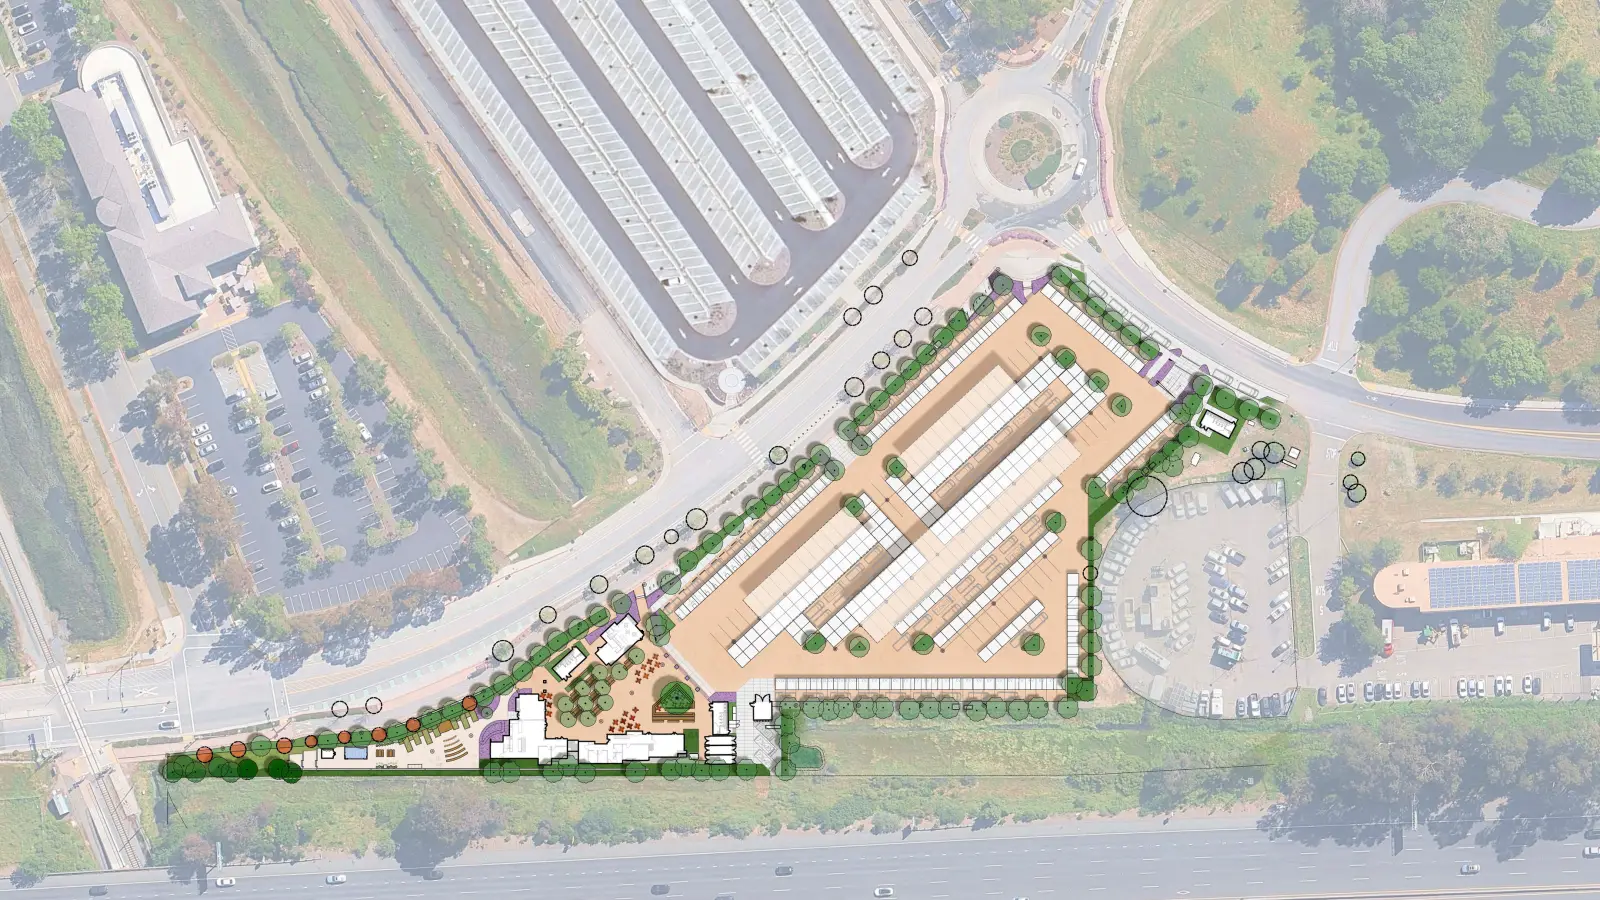
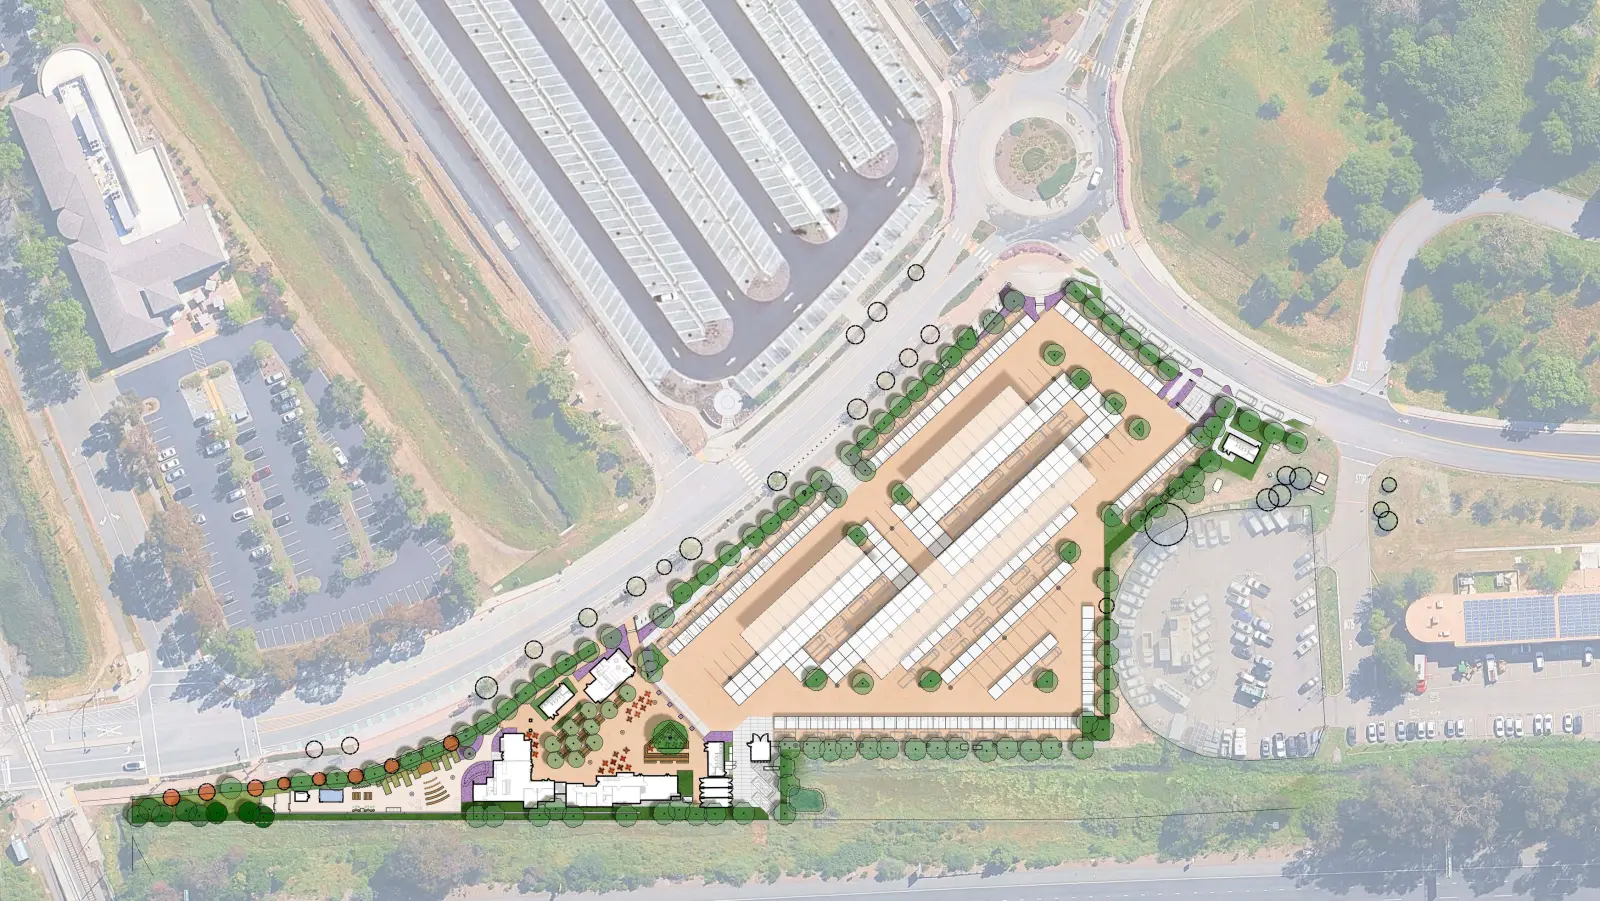
Fix CFA site map marker alignment
Canva places the plan art larger than the PDF page, overhanging the trim
by 40pt on each side and 45pt at the bottom. Marker coordinates are
measured against the page, so exporting the whole image put every marker
off by the overhang. Crop the export to the page frame instead.

Also measure the map frame with a ResizeObserver rather than on window
resize. The frame changes size when the layout switches between the
side-by-side and stacked arrangements, and a stale size fed clampView
bounds that pushed the plan out of view entirely.

diff --git a/app/cfa-map/CfaMapClient.tsx b/app/cfa-map/CfaMapClient.tsx
@@ -98,15 +98,25 @@ export default function CfaMapClient() {
 
   const active = selected ?? hovered;
 
+  // Measure the frame itself, not the window. The frame also changes size when
+  // the layout switches between the side-by-side and stacked arrangements and
+  // when its aspect ratio changes with it. A stale size feeds clampView the
+  // wrong bounds, which pushes the plan clean out of view.
   useEffect(() => {
-    const measure = () => {
-      setNarrow(window.innerWidth < 900);
-      const el = frameRef.current;
-      if (el) setSize({ w: el.clientWidth, h: el.clientHeight });
-    };
-    measure();
-    window.addEventListener("resize", measure);
-    return () => window.removeEventListener("resize", measure);
+    const el = frameRef.current;
+    if (!el) return;
+    const observer = new ResizeObserver(() =>
+      setSize({ w: el.clientWidth, h: el.clientHeight }),
+    );
+    observer.observe(el);
+    return () => observer.disconnect();
+  }, []);
+
+  useEffect(() => {
+    const onResize = () => setNarrow(window.innerWidth < 900);
+    onResize();
+    window.addEventListener("resize", onResize);
+    return () => window.removeEventListener("resize", onResize);
   }, []);
 
   const animateTo = useCallback((from: View, target: View) => {

diff --git a/lib/cfaMap.ts b/lib/cfaMap.ts
@@ -3,7 +3,10 @@
 // Marker coordinates are percentages of the base site-plan image and were
 // extracted from AIM's Canva PDF ("CFA Site Map.pdf", 2 pages, one legend set
 // per page) rather than placed by eye. Both PDF pages carry a byte-identical
-// 3680x2070 base image, so the two phases are two marker sets over one plan.
+// base image, so the two phases are two marker sets over one plan.
+//
+// The percentages are relative to the PDF *page*, which is why PLAN is cropped
+// to the page frame rather than exported whole. See the note on PLAN below.
 //
 // If AIM sends a revised PDF, re-run scripts/extract-site-map.py and paste the
 // output over the PHASES coordinates instead of nudging them by hand.
@@ -150,10 +153,14 @@ export const PHASES: Phase[] = [
   },
 ]
 
-/** the base plan, shared by both phases */
+/**
+ * The base plan, shared by both phases. Cropped to the PDF page frame: Canva
+ * places the art larger than the page and it overhangs the trim, so the full
+ * export would put every marker off by the overhang.
+ */
 export const PLAN = {
   src: '/cfa/site-plan.webp',
   placeholder: '/cfa/site-plan-1600.webp',
-  width: 3680,
-  height: 2070,
+  width: 3486,
+  height: 1961,
 }

diff --git a/scripts/extract-site-map.py b/scripts/extract-site-map.py
@@ -52,6 +52,25 @@ def marker_points(page, keys):
     return found
 
 
+def page_crop(page, source_width, source_height):
+    """The part of the base image the PDF page actually shows, in source pixels.
+
+    Canva places the plan larger than the page: it overhangs the trim on the
+    left, right and bottom. Marker coordinates are measured against the page, so
+    the exported art has to be cropped to the page frame or every marker lands
+    off by the overhang.
+    """
+    box = page.get_image_info()[0]["bbox"]
+    per_point_x = source_width / (box[2] - box[0])
+    per_point_y = source_height / (box[3] - box[1])
+    return (
+        round((page.rect.x0 - box[0]) * per_point_x),
+        round((page.rect.y0 - box[1]) * per_point_y),
+        round(page.rect.width * per_point_x),
+        round(page.rect.height * per_point_y),
+    )
+
+
 def write_base_image(doc):
     xref = doc[0].get_images(full=True)[0][0]
     image = doc.extract_image(xref)
@@ -62,18 +81,20 @@ def write_base_image(doc):
     if len(digests) > 1:
         print("! pages no longer share one base image: check the plan art", file=sys.stderr)
 
+    x, y, w, h = page_crop(doc[0], image["width"], image["height"])
     OUT_DIR.mkdir(parents=True, exist_ok=True)
     source = OUT_DIR / "source.jpg"
     source.write_bytes(image["image"])
-    # full detail for deep zoom, plus a small first paint
-    for name, width, quality in (("site-plan.webp", 3680, 82), ("site-plan-1600.webp", 1600, 72)):
-        subprocess.run(
-            ["cwebp", "-quiet", "-q", str(quality), "-resize", str(width), "0",
-             str(source), "-o", str(OUT_DIR / name)],
-            check=True,
-        )
+    # full detail for deep zoom, plus a small first paint. cwebp crops before it
+    # resizes, so the small one is the same frame at lower resolution.
+    for name, width, quality in ((("site-plan.webp"), 0, 82), ("site-plan-1600.webp", 1600, 72)):
+        args = ["cwebp", "-quiet", "-q", str(quality), "-crop", str(x), str(y), str(w), str(h)]
+        if width:
+            args += ["-resize", str(width), "0"]
+        subprocess.run(args + [str(source), "-o", str(OUT_DIR / name)], check=True)
     source.unlink()
-    return image["width"], image["height"]
+    print(f"cropped {image['width']}x{image['height']} to {w}x{h} at ({x}, {y})")
+    return w, h
 
 
 def main():
@@ -84,7 +105,8 @@ def main():
         print(f"! expected 2 pages, got {doc.page_count}", file=sys.stderr)
 
     w, h = write_base_image(doc)
-    print(f"wrote {OUT_DIR}/site-plan.webp and site-plan-1600.webp from {w}x{h} source\n")
+    print(f"wrote {OUT_DIR}/site-plan.webp and site-plan-1600.webp at {w}x{h}")
+    print(f"set PLAN.width/height in lib/cfaMap.ts to {w}/{h}\n")
 
     for index, keys in enumerate(PHASE_KEYS[: doc.page_count]):
         found = marker_points(doc[index], keys)
